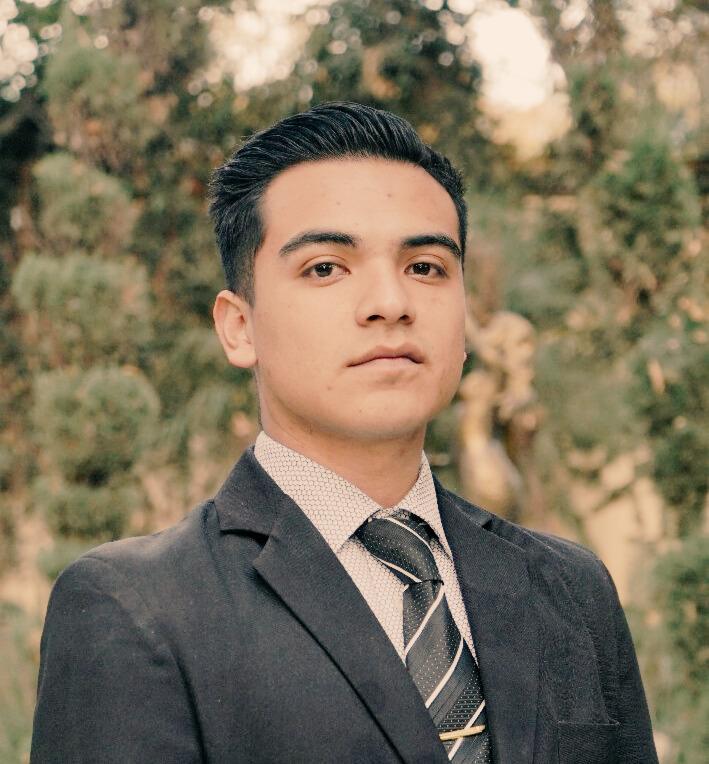
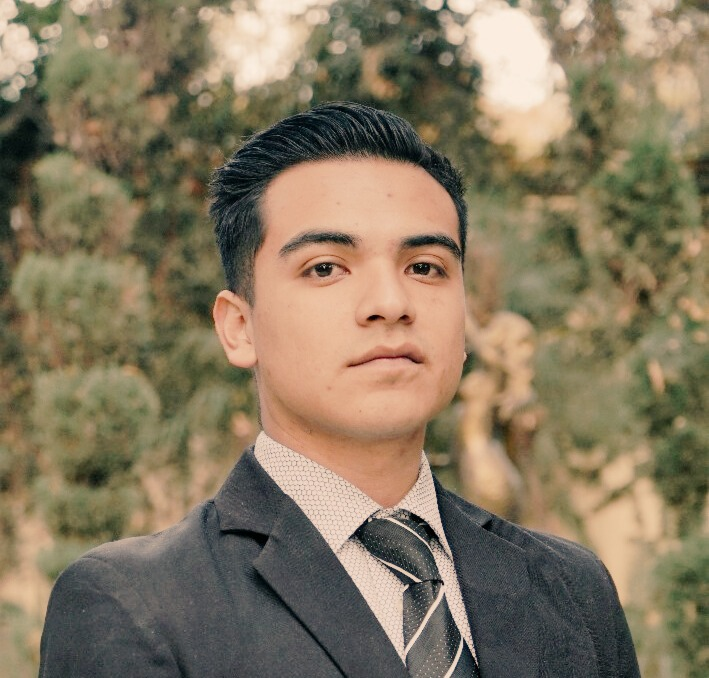
Randomize profile photo & enhance ProjectCard
Choose a random profile photo on the client to avoid hydration mismatch and add a second profile image. app/page.js: add profilePhoto state and effect to pick between /foto_perfil.jpg and /foto_perfil2.png, and use it for the profile Image. components/ProjectCard.jsx: wrap the project image in a Link to /projects/:id, keep the loading placeholder, add a centered "Ver detalles" overlay/button with desktop hover and always-visible mobile behavior, adjust backdrop-blur and badge styles, and improve mobile quality handling. Also add public/foto_perfil2.png and update public/foto_perfil.jpg.

diff --git a/components/ProjectCard.jsx b/components/ProjectCard.jsx
@@ -62,12 +62,15 @@ const ProjectCard = memo(({ project, isMobile = false, style, className }) => {
     >
       
       {/* Imagen optimizada con Next.js Image */}
-      <div className="relative aspect-video overflow-hidden bg-gray-100 dark:bg-gray-800">
+      <Link
+        href={`/projects/${project.id}`}
+        className="relative aspect-video overflow-hidden bg-gray-100 dark:bg-gray-800 block"
+      >
         {/* Placeholder mientras carga */}
         {!imageLoaded && (
           <div className="absolute inset-0 bg-gradient-to-br from-gray-200 to-gray-300 dark:from-gray-700 dark:to-gray-600 animate-pulse" />
         )}
-        
+
         <Image
           src={project.image}
           alt={project.title}
@@ -78,12 +81,26 @@ const ProjectCard = memo(({ project, isMobile = false, style, className }) => {
           quality={isMobile ? 60 : 75} //! Menor calidad en móvil
           onLoad={() => setImageLoaded(true)}
         />
-        
+
         {/* Overlay simplificado - Solo en desktop */}
         {!isMobile && (
           <div className="absolute inset-0 bg-gradient-to-t from-black/50 via-transparent to-black/10 opacity-0 group-hover:opacity-100 transition-opacity duration-300"></div>
         )}
-        
+
+        {/* Botón "Ver detalles" centrado - hover en desktop, siempre visible en móvil */}
+        <div
+          className={`absolute inset-0 flex items-center justify-center transition-opacity duration-300 ${
+            isMobile ? 'opacity-100' : 'opacity-0 group-hover:opacity-100'
+          }`}
+        >
+          <span
+            className={`inline-flex items-center gap-1.5 rounded-xl text-white font-semibold bg-black/60 border border-white/30 ${!isMobile && 'backdrop-blur-md'} ${isMobile ? 'px-3 py-1.5 text-xs' : 'px-4 py-2 text-sm'}`}
+          >
+            <Info size={15} className="shrink-0" />
+            Ver detalles
+          </span>
+        </div>
+
         {/* Badges superiores - SIN backdrop-blur en móvil */}
         <div className="absolute top-4 left-4 flex gap-2">
           <span className={`px-3 py-1.5 rounded-full text-xs font-semibold text-white bg-black/60 ${!isMobile && 'backdrop-blur-md'} border border-white/20`}>
@@ -100,7 +117,7 @@ const ProjectCard = memo(({ project, isMobile = false, style, className }) => {
             {project.type}
           </span>
         </div>
-      </div>
+      </Link>
 
       {/* Contenido - con flex-grow para empujar botones abajo */}
       <div className="relative p-6 space-y-4 flex-grow flex flex-col">

diff --git a/app/page.js b/app/page.js
@@ -109,12 +109,18 @@ export default function HomePage() {
   const [selected, setSelected] = useState("Todos");
   const [isMobile, setIsMobile] = useState(false);
   const [activeCard, setActiveCard] = useState(null);
+  const [profilePhoto, setProfilePhoto] = useState("/foto_perfil.jpg");
 
   useEffect(() => {
     const check = () => setIsMobile(window.innerWidth < 768);
     check();
     window.addEventListener("resize", check);
     return () => window.removeEventListener("resize", check);
+  }, []);
+
+  //* Foto de perfil aleatoria en cada carga (se decide en cliente para evitar mismatch de hidratación)
+  useEffect(() => {
+    setProfilePhoto(Math.random() < 0.5 ? "/foto_perfil.jpg" : "/foto_perfil2.png");
   }, []);
 
   const categories = ["Todos", ...new Set(PROJECTS.map((p) => p.category))];
@@ -340,7 +346,7 @@ export default function HomePage() {
 
               <div className="relative w-80 h-80 lg:w-96 lg:h-96 rounded-2xl overflow-hidden bg-gray-200 dark:bg-gray-700 shadow-2xl ring-1 ring-gray-200/50 dark:ring-gray-700/50">
                 <Image
-                  src="/foto_perfil.jpg"
+                  src={profilePhoto}
                   alt="Javier López Camacho"
                   width={400}
                   height={400}
